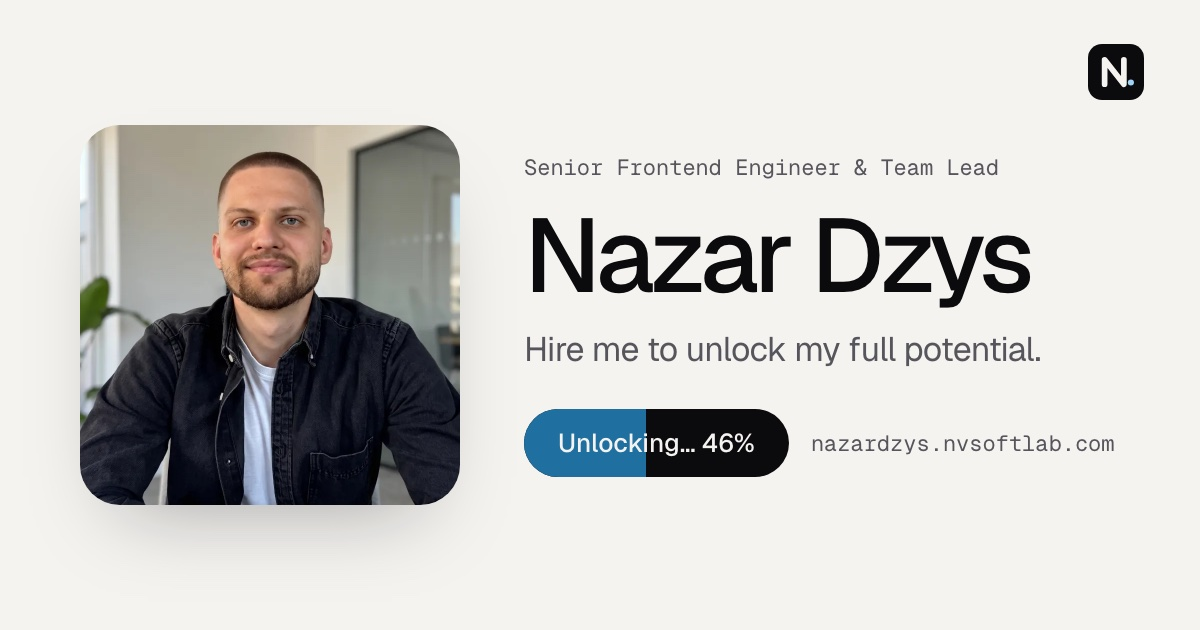
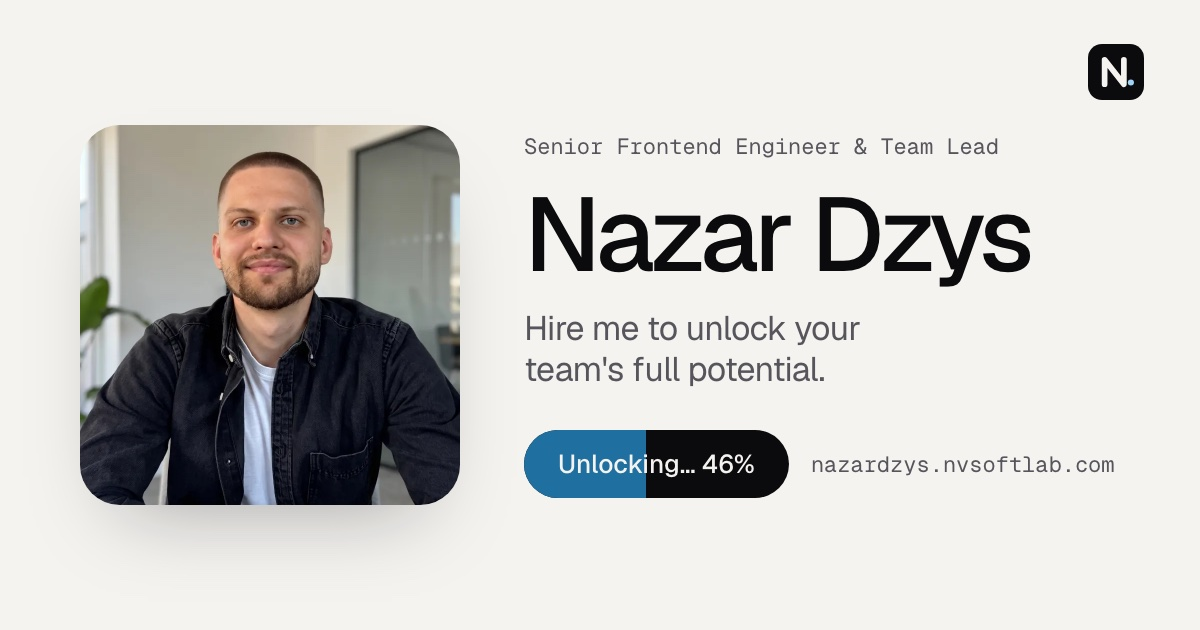
Reframe copy around value for the hiring team
Headline now promises to unlock the team's potential, and the bio,
meta and social descriptions lead with what I bring. Preview card
updated to match.

diff --git a/index.html b/index.html
@@ -4,7 +4,7 @@
     <meta charset="utf-8" />
     <meta name="viewport" content="width=device-width, initial-scale=1" />
     <title>Nazar Dzys · Senior Frontend Engineer &amp; Team Lead</title>
-    <meta name="description" content="Senior Frontend Engineer &amp; Team Lead, 10 years in React and TypeScript: architecture, design systems, performance. Wrocław-based, open to remote EU roles." />
+    <meta name="description" content="I help product teams ship faster: React architecture, design systems, performance. Senior Frontend Engineer &amp; Team Lead, 10 years in web. Wrocław, remote EU." />
     <meta name="author" content="Nazar Dzys" />
     <meta name="robots" content="index, follow, max-image-preview:large" />
     <meta name="theme-color" content="#F4F3F0" />
@@ -17,7 +17,7 @@
     <meta property="og:locale" content="en_US" />
     <meta property="og:url" content="https://nazardzys.nvsoftlab.com/" />
     <meta property="og:title" content="Nazar Dzys · Senior Frontend Engineer &amp; Team Lead" />
-    <meta property="og:description" content="10 years building for the web. I lead frontend teams, architect React apps, build design systems and make things fast. Wrocław · remote EU." />
+    <meta property="og:description" content="What I bring: solid React architecture, design systems that scale, fast UIs and a frontend team that ships. 10 years in web · Wrocław · remote EU." />
     <meta property="og:image" content="https://nazardzys.nvsoftlab.com/og-image.jpg" />
     <meta property="og:image:width" content="1200" />
     <meta property="og:image:height" content="630" />
@@ -26,7 +26,7 @@
     <meta property="profile:last_name" content="Dzys" />
     <meta name="twitter:card" content="summary_large_image" />
     <meta name="twitter:title" content="Nazar Dzys · Senior Frontend Engineer &amp; Team Lead" />
-    <meta name="twitter:description" content="10 years building for the web. I lead frontend teams, architect React apps, build design systems and make things fast. Wrocław · remote EU." />
+    <meta name="twitter:description" content="What I bring: solid React architecture, design systems that scale, fast UIs and a frontend team that ships. 10 years in web · Wrocław · remote EU." />
     <meta name="twitter:image" content="https://nazardzys.nvsoftlab.com/og-image.jpg" />
 
     <script type="application/ld+json">
@@ -37,7 +37,7 @@
         "givenName": "Nazar",
         "familyName": "Dzys",
         "jobTitle": "Senior Frontend Engineer & Team Lead",
-        "description": "Frontend engineer and team lead with 10 years in web development, focused on React architecture, design systems and performance.",
+        "description": "Senior Frontend Engineer and Team Lead who helps product teams ship faster: React architecture, design systems and performance.",
         "url": "https://nazardzys.nvsoftlab.com/",
         "image": "https://nazardzys.nvsoftlab.com/og-image.jpg",
         "email": "mailto:nazardzys@gmail.com",

diff --git a/src/seo.test.ts b/src/seo.test.ts
@@ -6,8 +6,13 @@ const read = (path: string) => readFileSync(new URL(`../${path}`, import.meta.ur
 const html = read('index.html');
 const SITE = 'https://nazardzys.nvsoftlab.com/';
 
-const meta = (attr: 'name' | 'property', key: string) =>
-  html.match(new RegExp(`<meta ${attr}="${key}" content="([^"]*)"`))?.[1];
+const decode = (text: string) =>
+  text.replace(/&amp;/g, '&').replace(/&quot;/g, '"').replace(/&lt;/g, '<').replace(/&gt;/g, '>');
+
+const meta = (attr: 'name' | 'property', key: string) => {
+  const value = html.match(new RegExp(`<meta ${attr}="${key}" content="([^"]*)"`))?.[1];
+  return value === undefined ? undefined : decode(value);
+};
 
 describe('SEO', () => {
   it('has a descriptive title and meta description', () => {

diff --git a/src/content.ts b/src/content.ts
@@ -4,7 +4,7 @@ export const profile = {
   lastName: 'Dzys',
   role: 'Senior Frontend Engineer & Team Lead',
   stack: 'React / TypeScript',
-  bio: 'Frontend engineer and team lead with 10 years in web development. I focus on React architecture, design systems and performance. Co-founder of NVSOFTLAB, where I build mobile products end to end.',
+  bio: 'I help product teams ship faster without breaking things: React architecture, design systems, performance. 10 years in web, now leading a frontend team on a high-traffic e-commerce platform. Co-founder of NVSOFTLAB.',
   location: 'Wrocław, Poland · Remote EU / hybrid',
   email: 'nazardzys@gmail.com',
   phone: { label: '+48 514 063 561', href: 'tel:+48514063561' },

diff --git a/src/App.test.tsx b/src/App.test.tsx
@@ -8,7 +8,7 @@ const unlockButton = () => screen.getByRole('button', { name: /unlock full poten
 describe('App', () => {
   it('renders the locked hero', () => {
     render(<App />);
-    expect(screen.getByRole('heading', { level: 1, name: /hire me to unlock my full potential/i })).toBeInTheDocument();
+    expect(screen.getByRole('heading', { level: 1, name: /hire me to unlock your team's full potential/i })).toBeInTheDocument();
     expect(unlockButton()).toBeEnabled();
     expect(screen.getByRole('link', { name: /download cv/i })).toHaveAttribute('href', '/Nazar_Dzys_CV.pdf');
     expect(screen.queryByRole('heading', { name: 'Nazar Dzys' })).not.toBeInTheDocument();

diff --git a/src/entry-server.test.tsx b/src/entry-server.test.tsx
@@ -5,7 +5,7 @@ import { render } from './entry-server';
 describe('prerender', () => {
   it('renders the page without browser globals', () => {
     const html = render();
-    expect(html).toContain('Hire me to unlock my');
+    expect(html).toContain('Hire me to unlock your team');
     expect(html).toContain('Nazar Dzys');
     expect(html).toContain('/Nazar_Dzys_CV.pdf');
   });

diff --git a/src/components/LockedPanel.tsx b/src/components/LockedPanel.tsx
@@ -30,7 +30,7 @@ export function LockedPanel({ phase, progress, onUnlock, buttonRef }: Props) {
         {profile.role}
       </motion.p>
       <motion.h1 className="headline" {...rise(450)}>
-        Hire me to unlock my full potential.
+        Hire me to unlock your team's full potential.
       </motion.h1>
 
       <motion.div className="status" {...rise(550)}>

diff --git a/src/styles.css b/src/styles.css
@@ -250,9 +250,9 @@ a:hover {
 
 .headline {
   margin: 0;
-  max-width: 560px;
+  max-width: 640px;
   font-weight: 500;
-  font-size: clamp(36px, 6vw, 80px);
+  font-size: clamp(36px, 5.2vw, 72px);
   line-height: 1;
   letter-spacing: -0.045em;
   text-wrap: balance;
